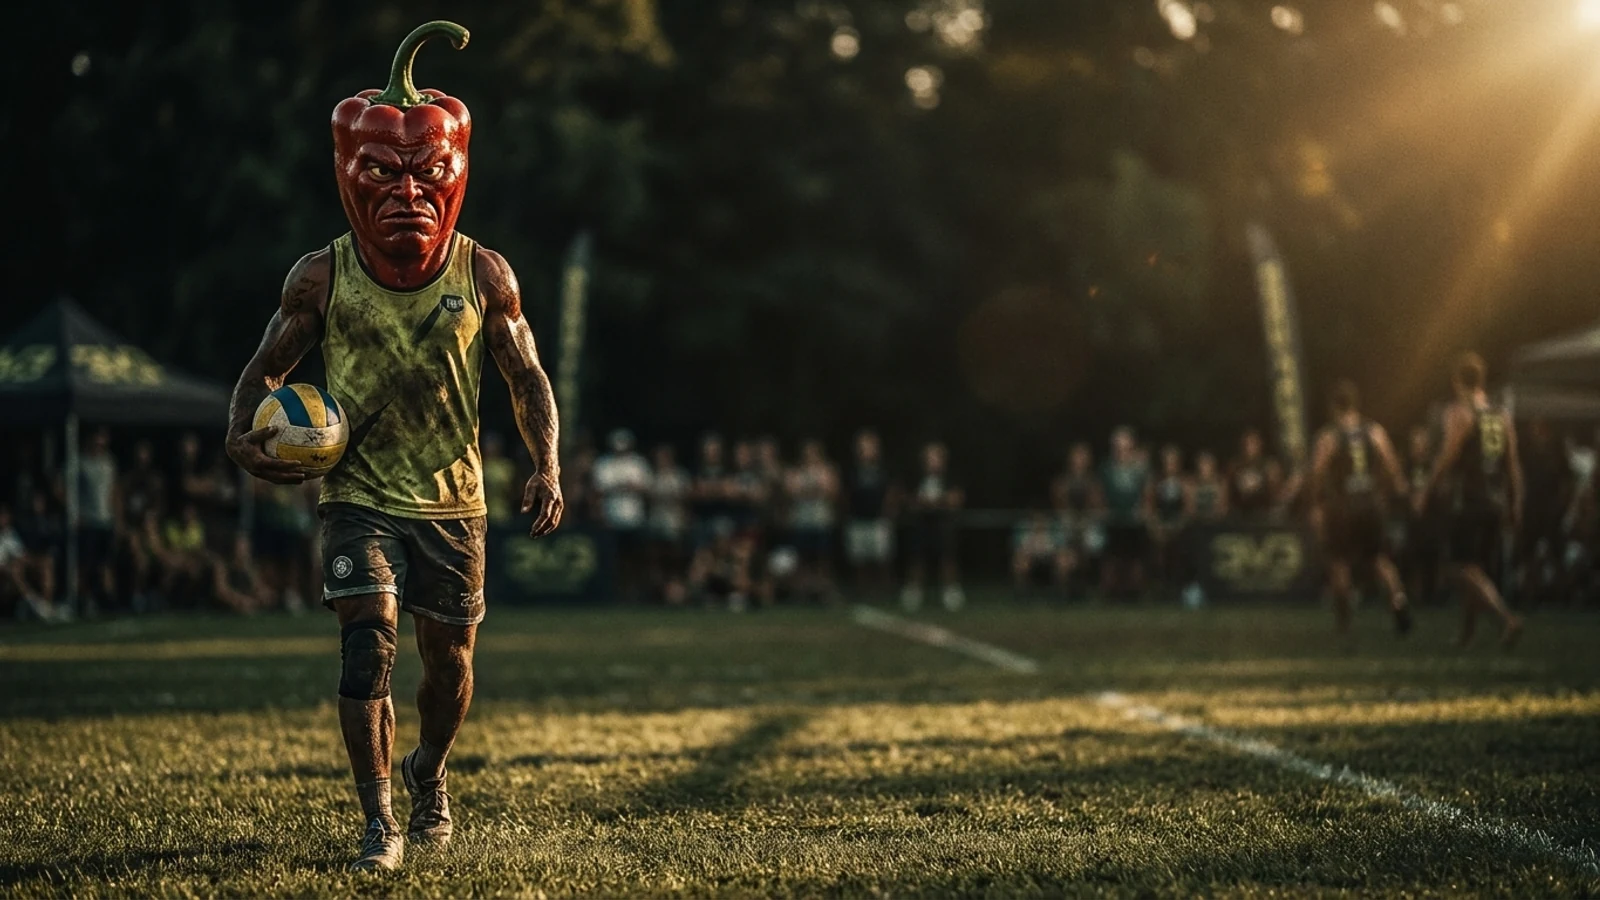
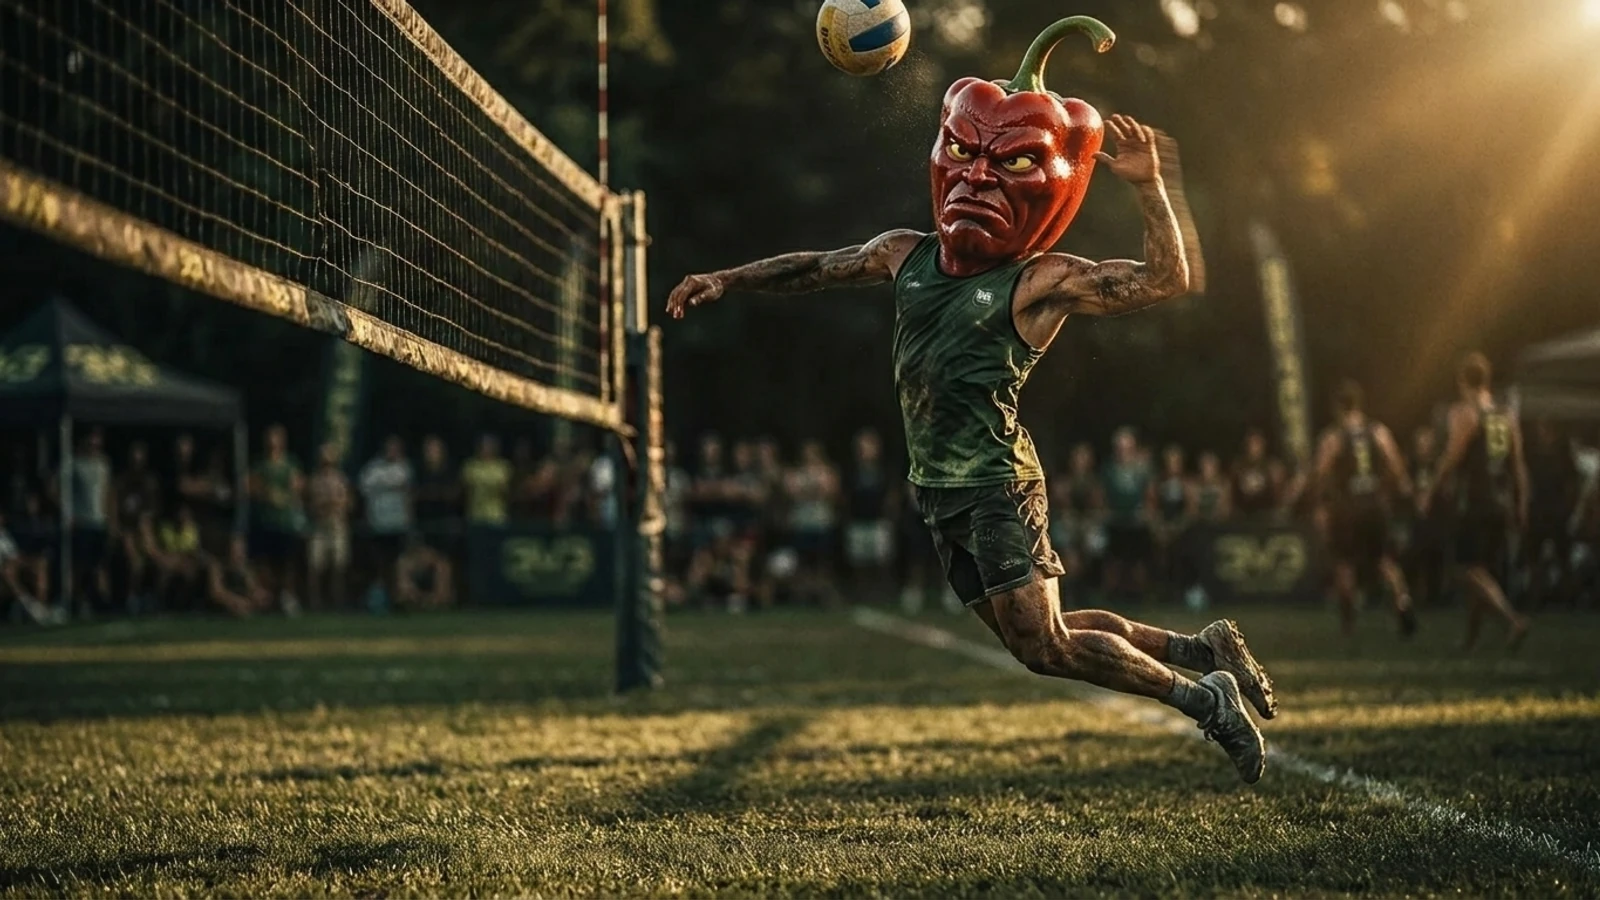
feat(flavors): gritty pepper-warrior heroes for all three events
Replaces the off-brand flat-vector cartoon mascots with photoreal,
gritty-cinematic pepper-warrior heroes — each an anthropomorphic pepper with the
rallyhq fierce face, in a signature volleyball action that matches the event's
identity:

- Bell (opener)   → red bell, defensive lunge
- Jalapeño (peak) → green jalapeño, mid-air attacking spike
- Poblano (finale)→ dark-green poblano, low defensive dig

Generated via tools/gen-images (gemini-3-pro-image) using the rallyhq bell hero as
the style/face reference, golden-hour grass-court grade. Bell stays red per
direction. Validated: all three flavor pages render the hero; tsc + lint clean.

diff --git a/src/app/flavors/[slug]/page.tsx b/src/app/flavors/[slug]/page.tsx
@@ -24,9 +24,10 @@ interface TournamentDetail {
   name: string
   heat: 'bell' | 'poblano' | 'jalapeno'
   /**
-   * Gritty-cinematic hero image (the brand-correct treatment). Optional: events
-   * without one yet render a cinematic gradient instead of the off-brand cartoon
-   * mascot. Generating jalapeño/poblano gritty heroes is a pending asset task.
+   * Gritty-cinematic hero image (the brand-correct treatment): an anthropomorphic
+   * pepper-warrior with the rallyhq fierce face, in a signature volleyball action
+   * (bell serve, jalapeño spike, poblano dig). Optional — an event without one
+   * falls back to a cinematic gradient rather than the off-brand cartoon mascot.
    */
   heroImage?: string
   tagline: string
@@ -79,6 +80,7 @@ const tournaments: Record<string, TournamentDetail> = {
     rhqSlug: 'jalapeno-open-2026',
     name: 'The Jalapeño Open',
     heat: 'jalapeno',
+    heroImage: '/images/heroes/jalapeno-open.webp',
     tagline: 'Bring The Heat',
     headline: 'Now it\'s time to bring the heat. The Jalapeño Open hits fast, sharp, and fully spiced.',
     description: 'Mid-season. You\'re dialed in — turn up the intensity. Built for players who value clean hands, crisp touches, and spicy pulls. Tighter rallies and peak competitive intensity.',
@@ -106,6 +108,7 @@ const tournaments: Record<string, TournamentDetail> = {
     rhqSlug: 'poblano-open-2026',
     name: 'The Poblano Pepper Open',
     heat: 'poblano',
+    heroImage: '/images/heroes/poblano-open.webp',
     tagline: 'Season Finale',
     headline: 'Cooling things down. The Poblano Pepper Open — final stop of the Let\'s Pepper Series.',
     description: 'Built for grinders, diggers, and defenders who know that touch beats torque. Long rallies, dirty knees, and payouts that stay spicy. Leave it all on the grass.',
